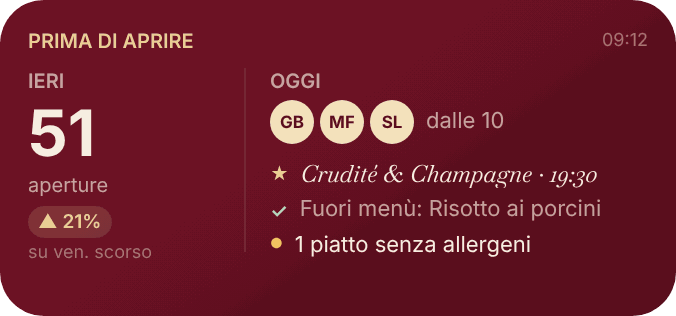
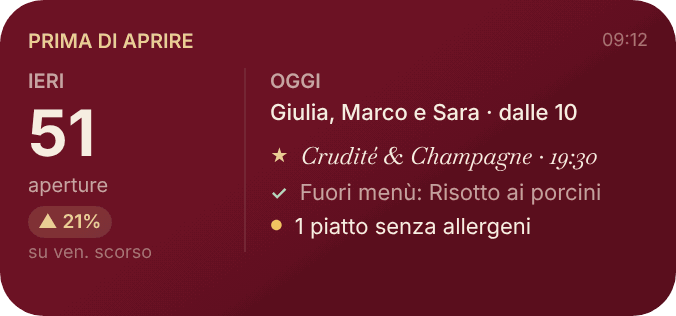
Versione 0.32.6: nei widget i nomi di chi lavora al posto dei tondi con le iniziali; spiegati colori e pile di widget
Claude-Session: https://claude.ai/code/session_01EJxiVCETf75PpRm3fVmtdi

Changed region(s): [[0.3728, 0.3133, 0.9009, 0.8259]]

diff --git a/public/widget/angolo.js b/public/widget/angolo.js
@@ -329,17 +329,12 @@ function anello(frazione, lato, spessore, colore, fondo) {
   return ctx.getImage();
 }
 
-function avatar(stack, iniziali, lato = 22) {
-  const s = stack.addStack();
-  s.size = new Size(lato, lato);
-  s.cornerRadius = lato / 2;
-  s.backgroundColor = C.avatar;
-  s.centerAlignContent();
-  const r = riga(s);
-  r.addSpacer();
-  testo(r, iniziali, Font.boldSystemFont(lato > 22 ? 9.5 : 8.5), C.avatarTesto);
-  r.addSpacer();
-  return s;
+// «Giulia, Marco e Sara»; da quattro in su «Giulia, Marco e altri 2».
+function nomi(persone) {
+  const n = persone.map((p) => p.nome);
+  if (n.length <= 1) return n.join("");
+  if (n.length <= 3) return `${n.slice(0, -1).join(", ")} e ${n.at(-1)}`;
+  return `${n.slice(0, 2).join(", ")} e altri ${n.length - 2}`;
 }
 
 // ---------- Messaggi (errori, formato sbagliato)
@@ -728,13 +723,8 @@ function wOggi(fam, d, v) {
       return;
     }
     const r = riga(dx);
-    f.persone.slice(0, 4).forEach((p, i) => {
-      if (i) r.addSpacer(3);
-      avatar(r, p.iniziali);
-    });
-    r.addSpacer(8);
-    const nomi = f.persone.map((p) => p.nome);
-    testo(r, nomi.length > 2 ? `${nomi.length} persone` : nomi.join(", "), F.testo(11), C.crema2, 1);
+    testo(r, nomi(f.persone), F.medio(11), C.crema, 1);
+    r.addSpacer();
   };
   fascia("Mattina", d.mattina);
   dx.addSpacer(8);
@@ -759,9 +749,7 @@ function wOggi(fam, d, v) {
       elenco.slice(i, i + 2).forEach((p, j) => {
         const c = riga(r);
         c.size = new Size(Math.floor((CW - 8) / 2), 0);
-        avatar(c, p.iniziali);
-        c.addSpacer(8);
-        testo(c, p.nome, F.testo(12), C.crema);
+        testo(c, p.nome, F.medio(12), C.crema);
         c.addSpacer();
         if (j === 0) r.addSpacer(8);
       });
@@ -1311,13 +1299,15 @@ function wPannello(fam, d, v) {
     tu.addSpacer();
     if (d.stasera.chiuso) testo(tu, d.stasera.chiuso, F.serifForte(15), C.rossoTesto, 2);
     else if (d.stasera.persone.length) {
-      const av = riga(tu);
-      d.stasera.persone.slice(0, 4).forEach((p, i) => {
-        if (i) av.addSpacer(4);
-        avatar(av, p, 26);
+      // Il nome e l'orario di ognuno (i tondi con le iniziali sull'iPhone non si leggevano).
+      const tante = d.stasera.persone.length > 3;
+      d.stasera.persone.slice(0, tante ? 2 : 3).forEach((p) => {
+        const r = riga(tu);
+        testo(r, typeof p === "string" ? p : p.nome, F.medio(12), C.crema);
+        r.addSpacer();
+        if (typeof p !== "string") testo(r, p.orario, F.testo(11), C.crema2);
       });
-      tu.addSpacer(4);
-      testo(tu, d.stasera.orario, F.medio(11), C.crema2);
+      if (tante) testo(tu, `e altri ${d.stasera.persone.length - 2}`, F.testo(11), C.crema2);
     } else testo(tu, "Nessuno in turno", F.testo(12), C.crema2);
     r3.addSpacer(gap);
     // 6 · Da fare
@@ -1365,13 +1355,8 @@ function wSala(fam, d, v) {
   team.url = link(d.linkTurni);
   if (d.chiuso) testo(team, d.chiuso, F.medio(11), C.rossoTesto);
   else if (d.alLavoro.length) {
-    d.alLavoro.slice(0, 3).forEach((p, i) => {
-      if (i) team.addSpacer(3);
-      avatar(team, p.iniziali);
-    });
-    team.addSpacer(6);
     const ultimo = d.alLavoro.reduce((a, b) => (b.fine > a.fine ? b : a));
-    testo(team, `al lavoro, fino alle ${ultimo.alle}`, F.testo(10), C.crema2);
+    testo(team, `${nomi(d.alLavoro)} · fino alle ${ultimo.alle}`, F.medio(10.5), C.crema);
   } else testo(team, d.arrivano.length ? `${d.arrivano[0].nome} arriva alle ${d.arrivano[0].dalle}` : "Nessuno in turno adesso", F.testo(10), C.crema2);
   dx.addSpacer(6);
   const es = riga(dx);
@@ -1421,12 +1406,7 @@ function wMattina(fam, d, v) {
   oggi.url = link(d.linkTurni);
   if (d.oggi.chiuso) testo(oggi, d.oggi.chiuso, F.medio(11), C.rossoTesto);
   else {
-    d.oggi.persone.slice(0, 3).forEach((p, i) => {
-      if (i) oggi.addSpacer(3);
-      avatar(oggi, p.iniziali);
-    });
-    oggi.addSpacer(6);
-    testo(oggi, d.oggi.persone.length ? `dalle ${d.oggi.persone[0].dalle}` : "nessun turno", F.testo(11), C.crema2);
+    testo(oggi, d.oggi.persone.length ? `${nomi(d.oggi.persone)} · dalle ${d.oggi.persone[0].dalle}` : "Nessun turno oggi", F.medio(11), C.crema);
     oggi.addSpacer();
   }
   dx.addSpacer(8);

diff --git a/src/app/(app)/widget/widget-client.tsx b/src/app/(app)/widget/widget-client.tsx
@@ -176,7 +176,9 @@ export function ThemePicker({ current, preview }: { current: string; preview: st
         <span aria-hidden className="text-foreground-muted transition-transform group-open:rotate-180">⌄</span>
       </summary>
       <p className="border-t border-border px-5 pt-3 text-sm text-foreground-muted">
-        Vale per tutti i tuoi widget e telefoni: l&apos;iPhone lo prende al primo aggiornamento, senza toccare niente.
+        Vale per tutti i widget dei telefoni collegati con il tuo accesso. L&apos;iPhone aggiorna i widget quando decide lui (di solito entro 15–30
+        minuti): per vederlo subito apri Scriptable e tocca ▶ su uno degli «Angolo …». Se un widget ha un colore scritto nel campo «Parameter», resta
+        quello.
       </p>
       <div className="grid grid-cols-1 gap-3 p-4 sm:grid-cols-2">
         {WIDGET_THEMES.map((t) => {
@@ -192,7 +194,7 @@ export function ThemePicker({ current, preview }: { current: string; preview: st
               onClick={() => {
                 setChoosing(t.id);
                 start(async () => {
-                  const r = await runWithToast(toast, () => setWidgetTheme(t.id), `Colore «${t.nome}» scelto per i tuoi widget`);
+                  const r = await runWithToast(toast, () => setWidgetTheme(t.id), `Colore «${t.nome}» scelto: sul telefono arriva al prossimo aggiornamento del widget`);
                   if (r !== null) router.refresh();
                 });
               }}
@@ -475,6 +477,8 @@ export function Installer({ ownerName, example }: { ownerName: string; example: 
             ["Il widget non si aggiorna", "Lo decide l'iPhone: di solito ogni 15–30 minuti. In alto a destra c'è l'ora dell'ultimo aggiornamento; toccandolo si apre la pagina con i dati di adesso."],
             ["Compare «Accesso tolto»", "Il telefono è stato scollegato o il widget non ti è più permesso. Chiedi al titolare."],
             ["Compare «non aggiornato» in rosso", "Il telefono non era in rete: si vedono gli ultimi dati salvati, con la loro ora."],
+            ["Il colore scelto non arriva sul telefono", "Il colore vale per i telefoni collegati con lo stesso accesso con cui l'hai scelto: guarda in «Telefoni collegati» a chi è intestato il tuo. Poi controlla che nel campo «Parameter» del widget non ci sia scritto un colore. Infine l'iPhone aggiorna i widget ogni 15–30 minuti: per vederlo subito apri Scriptable e tocca ▶ su un «Angolo …»."],
+            ["Più widget nello stesso spazio, da scorrere", "Si fa con le «pile» dell'iPhone: tieni premuta la Home, tocca «Modifica» e trascina un widget sopra un altro della stessa grandezza. Diventano una pila: scorri in su o in giù col dito per passare dall'uno all'altro (es. Pannello, Andamento e QR, tutti grandi). Tienila premuta e scegli «Modifica pila» per l'ordine; spegni «Rotazione intelligente» se non vuoi che cambi da sola."],
             ["Mi hanno dato un widget nuovo", "Apri Scriptable e tocca ▶ su «Angolo del Vino – installa»: il nuovo compare nell'elenco. Quelli tolti spariscono."],
             ["Voglio un widget di un altro colore", "I colori si scelgono qui sotto, per tutti i tuoi widget. Per uno solo diverso: tocca il widget e alla voce «Parameter» scrivi il nome del colore (es. «nero» o «oliva»)."],
             ["Avevo già i widget della prima versione", "Continuano a funzionare. Per avere i nuovi collega di nuovo il telefono (punto 2) e segui i passi; poi scollega il collegamento vecchio in «Telefoni collegati»."],

diff --git a/src/lib/widget-data.ts b/src/lib/widget-data.ts
@@ -650,7 +650,11 @@ export async function dataPannello(owner: { kind: "admin" } | { kind: "employee"
     delta: ap.deltaIeri,
     ieriFinora: ap.ieri,
     ultimi14: ap.ultimi14,
-    stasera: { chiuso: staff.chiuso, persone: staff.stasera.map((p) => p.iniziali), orario: staff.stasera.length ? `${staff.stasera[0].dalle}–${[...staff.stasera].sort((a, b) => b.fine - a.fine)[0].alle}` : null },
+    stasera: {
+      chiuso: staff.chiuso,
+      persone: staff.stasera.map((p) => ({ nome: p.nome, orario: `${p.dalle}–${p.alle}` })),
+      orario: staff.stasera.length ? `${staff.stasera[0].dalle}–${[...staff.stasera].sort((a, b) => b.fine - a.fine)[0].alle}` : null,
+    },
     fuori: [...daily.piatti, ...daily.vini].map((x) => x.nome).slice(0, 2),
     daFare: daFare.reduce((s, r) => s + r.n, 0),
     daFarePrimo: daFare[0] ? { testo: TODO_TEXT[daFare[0].breve]?.(daFare[0].n) ?? `${daFare[0].n} ${daFare[0].breve}`, link: daFare[0].link } : null,
